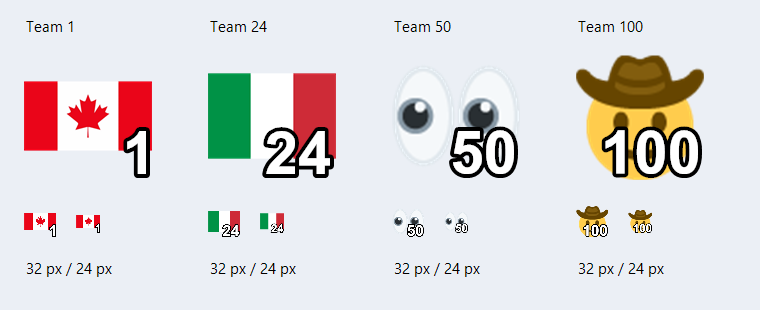
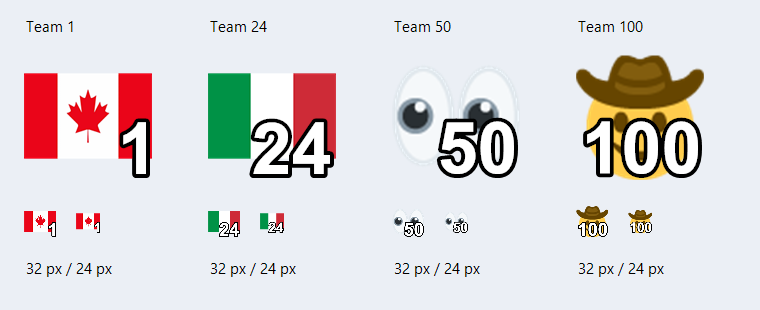
Restore observer CSV compatibility and improve number readability on master

diff --git a/src/TeamNumbers.cs b/src/TeamNumbers.cs
@@ -28,9 +28,9 @@ namespace PubgObserver
                 using (var path = new GraphicsPath())
                 using (var family = new FontFamily("Arial"))
                 {
-                    path.AddString(text, family, (int)FontStyle.Bold, 60, Point.Empty, StringFormat.GenericTypographic);
+                    path.AddString(text, family, (int)FontStyle.Bold, 72, Point.Empty, StringFormat.GenericTypographic);
                     var bounds = path.GetBounds();
-                    float textScale = Math.Min(1f, 98f / bounds.Width);
+                    float textScale = Math.Min(1f, 114f / bounds.Width);
                     using (var transform = new Matrix())
                     {
                         transform.Translate(-bounds.X, -bounds.Y);

diff --git a/src/Installer.cs b/src/Installer.cs
@@ -9,8 +9,8 @@ using System.Windows.Forms;
 
 [assembly: AssemblyTitle("PUBG Observer Installer")]
 [assembly: AssemblyDescription("Installiert lokale Observer-Pakete fuer PUBG")]
-[assembly: AssemblyVersion("1.2.1.0")]
-[assembly: AssemblyFileVersion("1.2.1.0")]
+[assembly: AssemblyVersion("1.2.3.0")]
+[assembly: AssemblyFileVersion("1.2.3.0")]
 
 namespace PubgObserver
 {
@@ -124,7 +124,7 @@ namespace PubgObserver
 
         public MainForm()
         {
-            Text = "PUBG Observer Installer 1.2.1";
+            Text = "PUBG Observer Installer 1.2.3";
             ClientSize = new Size(700, 550);
             FormBorderStyle = FormBorderStyle.FixedSingle;
             MaximizeBox = false;

diff --git a/src/TeamCsv.cs b/src/TeamCsv.cs
@@ -109,6 +109,9 @@ namespace PubgObserver
 
         private static string Quote(string field)
         {
+            // Keep PUBG's plain headers, numeric IDs and filenames unchanged.
+            // Only custom values containing CSV delimiters need escaping.
+            if (field.IndexOfAny(new[] { ',', '"', '\r', '\n' }) < 0) return field;
             return "\"" + field.Replace("\"", "\"\"") + "\"";
         }
     }

diff --git a/README.md b/README.md
@@ -16,6 +16,10 @@ Observer-Dateien für PUBG mit wenigen Klicks installieren: Paket wählen, **Ins
 
 Beide Pakete sind direkt in der EXE enthalten. Nummern werden über die standardmäßig aktive Option hinzugefügt; ein separates Paket mit fest eingebrannten Nummern ist nicht mehr enthalten. Es ist kein Internetzugang und kein Google-Drive-Login erforderlich.
 
+Ab Version 1.2.2 haben alle 25 Flaggen eine einheitliche Fläche von **192 × 128 Pixeln (3:2)**. Dafür werden ihre ursprünglichen Seitenverhältnisse angeglichen, ohne Motive abzuschneiden. Hochwertige Skalierung und moderate Nachschärfung verbessern die Darstellung; fehlende Details kleiner Quelldateien lassen sich dadurch nicht wiederherstellen. Die Originale liegen unter `assets/flags-source`.
+
+![Alle Flaggen vor und nach der Optimierung sowie mit Nummern](docs/images/flags-preview.png)
+
 <details>
 <summary>Weitere Ansichten</summary>
 
@@ -41,6 +45,8 @@ Die Option **Nummern hinzufügen** ist standardmäßig aktiv und kann für alle 
 
 Die Nummerierung wird nach der optionalen Emoji-Ergänzung angewendet, sodass auch aufgefüllte Teams ihre passende Zahl bekommen. Beim Ausschalten und erneuten Installieren eines enthaltenen Pakets werden wieder dessen Originalbilder verwendet. Bereits in Originalbildern enthaltene Nummern werden dadurch nicht entfernt.
 
+Ab Version 1.2.3 sind die Zahlen etwa 20 Prozent größer; dreistellige Teamnummern erhalten entsprechend mehr Platz in der Breite.
+
 ![Nummerierung in großer Ansicht sowie mit 32 und 24 Pixeln](docs/images/numbered-preview.png)
 
 Die Vorschau prüft die Lesbarkeit bei kleinen Bildgrößen; die konkrete Skalierung im aktuellen PUBG-Client wurde noch nicht im Spiel getestet.
@@ -53,9 +59,13 @@ Die Checkbox erscheint, wenn die ausgewählte CSV nicht alle Teamnummern 1 bis 1
 - Emojis: bereits vollständig, deshalb keine Checkbox.
 - Eigene CSV: auch Lücken mitten in der Teamnummernfolge werden ergänzt.
 
+Das Emoji-Paket liefert seit Version 1.2.3 für jedes Team einen vollständigen RGBA-Farbwert (`ffffffff`). Dadurch enden ergänzte CSV-Zeilen nicht mehr mit einem leeren `TeamColor`-Feld. Dies adressiert eine mögliche Ursache für nicht angezeigte Ergänzungen wie Team 26; die Bestätigung im Spiel steht aus.
+
 Vorhandene Teamnamen, Bildzuordnungen und Bilder bleiben erhalten. Ergänzt wird jeweils das Emoji derselben Teamnummer aus dem enthaltenen Emoji-Paket. Neue Bilder erhalten eigene Dateinamen, sodass vorhandene Dateien nicht überschrieben werden. Es wird ausschliesslich die Installationskopie bearbeitet, nicht der ausgewählte Quellordner. Ein vorhandener CSV-Eintrag mit fehlendem Bild wird durch diese Option nicht ersetzt.
 
 Eigene CSV-Dateien muessen kommasepariert sein und eindeutige Teamnummern sowie die Spalten `TeamNumber` und `ImageFileName` enthalten. Anführungszeichen in CSV-Feldern werden unterstützt. Fuer die CSV-Prüfung werden UTF-8 sowie BOM-markierte Unicode-Dateien unterstützt. Fehler beim Auffuellen lassen eine bisherige Installation unverändert.
+
+Seit Version 1.2.2 bleiben Spaltennamen und einfache CSV-Werte auch bei Nummerierung und Emoji-Ergänzung ohne Anführungszeichen. Die vorherige Ausgabe setzte sämtliche Felder in Anführungszeichen und steht im Zusammenhang mit dem gemeldeten Ladefehler. Eigene Werte mit Kommas, Anführungszeichen oder Zeilenumbrüchen werden weiterhin korrekt als CSV maskiert; deren Unterstützung durch PUBG wurde nicht bestätigt.
 
 ## Sprache und Unterstützung
 
@@ -92,8 +102,11 @@ In Windows PowerShell oder PowerShell 7:
 ```powershell
 .\build.ps1
 .\tests\smoke.ps1
+.\tests\observer-compatibility.ps1
 .\scripts\render-ui.ps1
 ```
+
+Die Flaggen lassen sich mit `scripts/optimize-flags.ps1` erneut aus den Originalen erzeugen. Danach neu bauen; `scripts/preview-flags.ps1 -InstallerPath <EXE>` erzeugt die Vergleichsansicht einschließlich nummerierter Icons bei 32 Pixeln.
 
 Der Build nutzt den .NET-Framework-Compiler von Windows. Die Ausgabe liegt unter `dist/`; nur EXE und `SHA256SUMS.txt` werden für den Release benötigt. Die ZIP-Dateien sind Zwischenprodukte. `-OutputDirectory` erlaubt einen separaten Build-Ordner, falls eine bereits gestartete EXE die Standardausgabe sperrt. Test- und Render-Skript akzeptieren dazu `-InstallerPath`.
 

diff --git a/docs/releases/v1.2.3.md b/docs/releases/v1.2.3.md
@@ -1,0 +1,12 @@
+# PUBG Observer Installer 1.2.3
+
+- CSV-Korrektur gegenüber v1.2.1: Nummerierung und Emoji-Ergänzung setzen Spaltennamen und einfache Werte nicht mehr in Anführungszeichen.
+- Alle 25 Flaggen auf eine einheitliche Fläche von 192 × 128 Pixeln gebracht und moderat nachgeschärft. Originaldateien bleiben erhalten.
+- Teamnummern um etwa 20 Prozent vergrößert; dreistellige Zahlen nutzen mehr Breite und bleiben vollständig innerhalb des Icons. Weiße Schrift mit schwarzer Kontur bleibt erhalten.
+- Das Emoji-Paket enthält jetzt für alle Teams den vollständigen RGBA-Farbwert `ffffffff`. Damit erhalten auch beim Auffüllen ergänzte Teams 26–100 einen nichtleeren `TeamColor`-Wert.
+- Nach der Aktualisierung wurde die Anzeige des Emojis für Team 26 im Spiel bestätigt. Die Farbfeldänderung wurde nicht isoliert im Spiel getestet.
+- Neuer Test `tests/observer-compatibility.ps1` prüft beide aufgefüllten Pakete mit und ohne Nummern: 100 eindeutige Teams, fünf nichtleere unzitierte CSV-Felder, RGBA-Farben und vorhandene, lesbare, sichtbare Bilder. Der Test bildet keinen PUBG-Parser nach.
+
+Smoke-Tests und Kompatibilitätsprüfungen bestanden. PUBG schließen und mit aktivierter Emoji-Ergänzung neu installieren.
+
+Bekannter offener Fall: In einer Replay-Teamliste fehlt bei Team 29 weiterhin das Icon samt weiterer Darstellungselemente. CSV und Bilddateien sind vollständig; auch ein Tausch auf ein funktionierendes Bild änderte die Anzeige nicht. Ein Zusammenhang mit fehlenden Replay-Daten entfernter Spieler ist eine unbestätigte Vermutung. Der Diagnosefall bleibt offen; dieser Release behauptet keine Behebung.

diff --git a/docs/releases/v1.2.2.md b/docs/releases/v1.2.2.md
@@ -1,0 +1,8 @@
+# PUBG Observer Installer 1.2.2
+
+- CSV-Korrektur: Nummerierung und Emoji-Ergänzung schreiben Spaltennamen und einfache Werte wieder ohne Anführungszeichen. Zuvor wurden sämtliche Felder zitiert; nach Abschalten beider Optionen konnte der Nutzer die Icons wieder in PUBG laden.
+- Alle 25 Flaggen haben dieselbe sichtbare Fläche von 192 × 128 Pixeln (3:2). Abweichende nationale Seitenverhältnisse werden für gleich große Killfeed-Icons angepasst, ohne Motive abzuschneiden.
+- Hochwertige Skalierung und moderate Nachschärfung; Originaldateien werden separat aufbewahrt. Kleine Quellen erhalten dadurch keine zusätzlichen echten Details.
+- Regressionstest prüft die CSV als Rohtext für beide Pakete und alle aktiven Optionskombinationen. Bestehende Tests für eigene CSV-Felder mit Kommas und Anführungszeichen bleiben erhalten.
+
+Lokale Installations- und Bildtests durchgeführt. Der korrigierte Build muss noch im Spiel überprüft werden.
